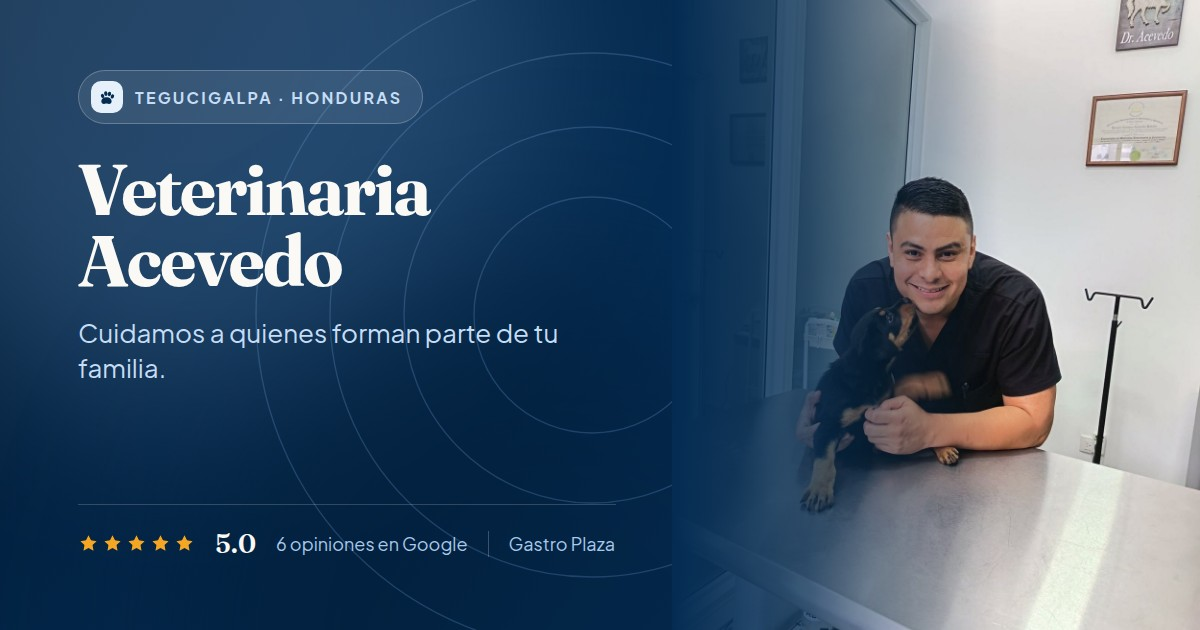
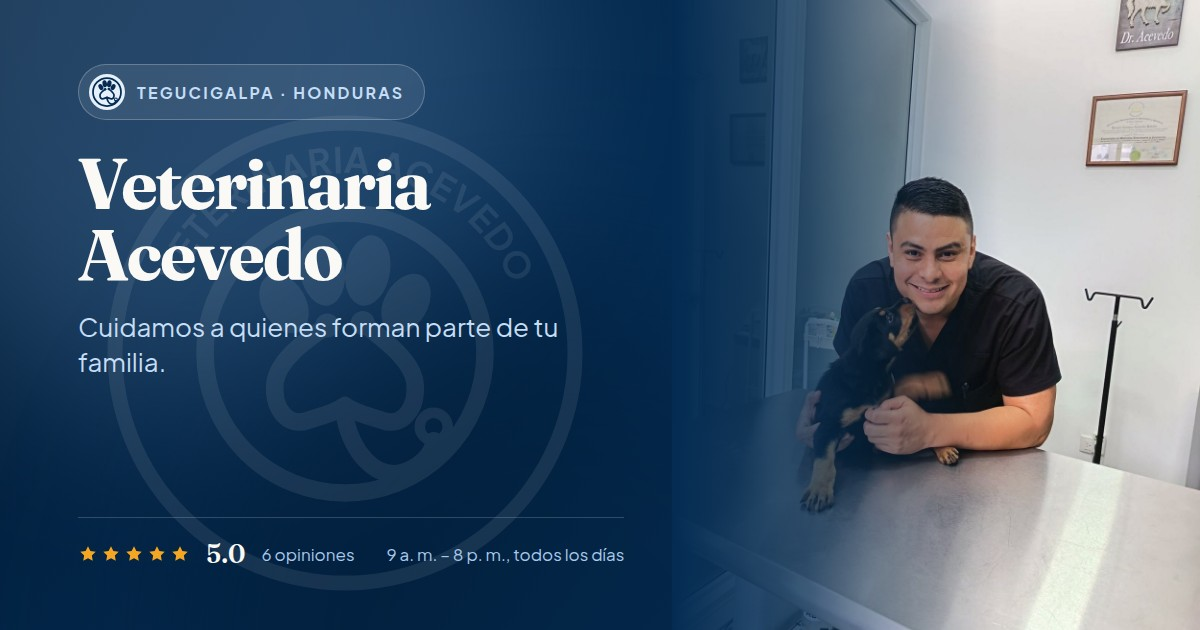
Logotipo real de la clínica, horarios y textos de servicios
Logotipo
- Se redibuja el logotipo de Veterinaria Acevedo en SVG (`ui/LogoMark.tsx`). El
  archivo entregado medía 206 px, demasiado poco para usarlo tal cual: ampliarlo
  se habría visto borroso. La versión vectorial se ve nítida en cualquier
  tamaño. La geometría se midió sobre el original —anillos, dedos, almohadilla y
  campana— y se verificó superponiendo el trazado al archivo de partida.
- El tubo del estetoscopio dibuja el contorno de la almohadilla, igual que en la
  marca original.
- El símbolo toma el color del contenedor, así que sirve en azul sobre fondo
  claro y en blanco sobre el azul marino de la barra y el pie.
- La barra de navegación usa la versión sin el texto circular, que a 44 px no se
  leería, junto al nombre en tipografía. El sello completo va en el pie, a 96 px.
- El favicon se rehace con el mismo símbolo.
- La imagen para compartir incorpora el logotipo como marca de agua y en la
  etiqueta de ubicación.

Contenido
- Horario de atención: todos los días de 9:00 a. m. a 8:00 p. m. La sección de
  Ubicación ya no muestra el aviso de «consultar disponibilidad».
- Se actualizan las descripciones de Consulta veterinaria, Medicina preventiva y
  Orientación para propietarios con el texto facilitado por la clínica.

Verificado: contraste de todo el texto conforme a WCAG AA, sin desbordes
horizontales entre 320 y 1920 px, sin errores de consola ni peticiones fallidas.

Claude-Session: https://claude.ai/code/session_01RADfFrq428WcMdVogMPWmF

diff --git a/src/components/ui/LogoMark.tsx b/src/components/ui/LogoMark.tsx
@@ -1,0 +1,80 @@
+import { useId } from 'react';
+
+type LogoMarkProps = {
+  /**
+   * `true` dibuja el sello completo, con «VETERINARIA ACEVEDO» rodeando la
+   * pata. Por debajo de unos 90 px ese texto deja de leerse, así que en la
+   * barra de navegación conviene `false`.
+   */
+  withText?: boolean;
+  className?: string;
+};
+
+/**
+ * Logotipo de la clínica, redibujado en vector a partir del original.
+ * El tubo del estetoscopio traza el contorno de la almohadilla, igual que en
+ * la marca real. Al ser vectorial se ve nítido en cualquier tamaño.
+ *
+ * Toma el color del texto que lo contiene (`currentColor`), de modo que sirve
+ * tanto en azul sobre fondo claro como en blanco sobre fondo oscuro.
+ */
+export function LogoMark({ withText = true, className = '' }: LogoMarkProps) {
+  const arcId = `arco-${useId().replace(/:/g, '')}`;
+
+  return (
+    <svg
+      /* Sin el texto se recorta al anillo interior, para que la pata llene el
+         encuadre sin tener que reescalarla. */
+      viewBox={withText ? '0 0 200 200' : '40 40 120 120'}
+      className={className}
+      fill="none"
+      stroke="currentColor"
+      aria-hidden="true"
+      focusable="false"
+    >
+      {withText ? (
+        <>
+          <defs>
+            <path id={arcId} d="M 32.3 124.6 A 72 72 0 1 1 167.7 124.6" fill="none" />
+          </defs>
+          <circle cx="100" cy="100" r="92" strokeWidth="6" />
+          <text
+            fontFamily="'Plus Jakarta Sans', ui-sans-serif, system-ui, sans-serif"
+            fontSize="14.2"
+            fontWeight="700"
+            letterSpacing="0.3"
+            fill="currentColor"
+            stroke="none"
+          >
+            <textPath href={`#${arcId}`} startOffset="50%" textAnchor="middle">
+              VETERINARIA ACEVEDO
+            </textPath>
+          </text>
+        </>
+      ) : null}
+
+      <circle cx="100" cy="100" r="56" strokeWidth="7" />
+
+      <g>
+        {/* Dedos */}
+        <g fill="currentColor" stroke="none">
+          <ellipse cx="75.6" cy="80.2" rx="8.7" ry="12.8" transform="rotate(-30 75.6 80.2)" />
+          <ellipse cx="90.9" cy="67" rx="8.9" ry="14.2" transform="rotate(-10 90.9 67)" />
+          <ellipse cx="109.1" cy="67" rx="8.9" ry="14.2" transform="rotate(10 109.1 67)" />
+          <ellipse cx="124.4" cy="80.2" rx="8.7" ry="12.8" transform="rotate(30 124.4 80.2)" />
+        </g>
+
+        {/* Estetoscopio: su tubo dibuja el contorno de la almohadilla */}
+        <g strokeWidth="7" strokeLinecap="round" strokeLinejoin="round">
+          <path d="M92.9 89C84 95 73 103 72 112 71 122 77 130 85 127 91 125 96 124 100 121 104 124 109 125 115 127 123 130 129 122 128 112 127 103 116 95 107.1 88" />
+          <path d="M100 126C103 140 112 150 122 148 130 146 135.5 140 135.5 135" />
+        </g>
+        <g fill="currentColor" stroke="none">
+          <circle cx="92.9" cy="89" r="4.8" />
+          <circle cx="107.1" cy="88" r="4.8" />
+        </g>
+        <circle cx="135.5" cy="129.5" r="5.6" strokeWidth="4.2" />
+      </g>
+    </svg>
+  );
+}

diff --git a/src/components/ui/Logo.tsx b/src/components/ui/Logo.tsx
@@ -1,29 +1,38 @@
-import { Icon } from './Icon';
+import { LogoMark } from './LogoMark';
 import { business } from '../../data/business';
 
 type LogoProps = {
   tone?: 'light' | 'dark';
+  /**
+   * `lockup` combina el símbolo con el nombre en tipografía: se lee bien en
+   * tamaños pequeños, como la barra de navegación.
+   * `badge` muestra el sello completo de la clínica, con su texto circular.
+   * Sólo conviene a partir de unos 80 px.
+   */
+  variant?: 'lockup' | 'badge';
   className?: string;
 };
 
-/**
- * Lockup de marca: símbolo + nombre en dos niveles.
- * `tone="dark"` se usa sobre fondos oscuros (pie de página, menú móvil).
- */
-export function Logo({ tone = 'light', className = '' }: LogoProps) {
+/** Marca de Veterinaria Acevedo. */
+export function Logo({ tone = 'light', variant = 'lockup', className = '' }: LogoProps) {
   const isDark = tone === 'dark';
+  const colorClass = isDark ? 'text-white' : 'text-brand-600';
   const [first, ...restName] = business.name.split(' ');
+
+  if (variant === 'badge') {
+    return (
+      <LogoMark
+        className={`size-24 shrink-0 transition-colors duration-500 ${colorClass} ${className}`.trim()}
+      />
+    );
+  }
 
   return (
     <span className={`flex items-center gap-3 ${className}`.trim()}>
-      <span
-        aria-hidden="true"
-        className={`grid size-11 shrink-0 place-items-center rounded-[0.9rem] bg-gradient-to-br shadow-[var(--shadow-soft)] transition-colors duration-500 ${
-          isDark ? 'from-brand-400 to-brand-600 text-navy-950' : 'from-navy-700 to-navy-900 text-mist-100'
-        }`}
-      >
-        <Icon name="paw" size={22} />
-      </span>
+      <LogoMark
+        withText={false}
+        className={`size-11 shrink-0 transition-colors duration-500 ${colorClass}`}
+      />
       <span className="flex flex-col leading-none">
         <span
           className={`text-[0.6rem] font-bold tracking-[0.22em] uppercase transition-colors duration-500 ${

diff --git a/src/data/business.ts b/src/data/business.ts
@@ -108,7 +108,9 @@ export const business = {
    *     { days: 'Sábado',          time: '8:00 a. m. – 12:00 m.' },
    *   ],
    * ----------------------------------------------------------------------- */
-  hours: [] as { days: string; time: string }[], // ✏ EDITABLE
+  hours: [
+    { days: 'Todos los días', time: '9:00 a. m. – 8:00 p. m.' }, // ✏ EDITABLE
+  ] as { days: string; time: string }[],
 
   /* ── SEO ───────────────────────────────────────────────────────────────── */
   seo: {
@@ -146,13 +148,13 @@ export const services: Service[] = [
     icon: 'stethoscope',
     title: 'Consulta veterinaria',
     description:
-      'Atención personalizada para perros y gatos, con tiempo para escuchar y revisar con calma a cada paciente.',
+      'Atención personalizada para perros y gatos, con el cuidado necesario para atender a cada paciente.',
   },
   {
     icon: 'shield',
     title: 'Medicina preventiva',
     description:
-      'Acompañamiento para mantener la salud de tu mascota y anticiparse a los problemas antes de que aparezcan.',
+      'Acompañamiento para mantener la salud de tu mascota y prevenir patologías antes de que aparezcan.',
   },
   {
     icon: 'heart',
@@ -164,7 +166,7 @@ export const services: Service[] = [
     icon: 'chat',
     title: 'Orientación para propietarios',
     description:
-      'Resolvemos tus dudas y te explicamos cada paso, para que tomes decisiones informadas sobre tu mascota.',
+      'Aclaramos tus dudas y te explicamos cada paso, para que tomes decisiones informadas sobre tu mascota.',
   },
 ];
 

diff --git a/src/components/Footer.tsx b/src/components/Footer.tsx
@@ -18,7 +18,7 @@ export function Footer() {
         <div className="grid gap-12 md:grid-cols-12 md:gap-8">
           {/* Marca */}
           <div className="md:col-span-5 lg:col-span-4">
-            <Logo tone="dark" />
+            <Logo tone="dark" variant="badge" />
             <p className="mt-6 max-w-xs text-[0.9375rem] leading-relaxed">
               {business.legalName}. Atención veterinaria y cuidado integral de mascotas en{' '}
               {business.address.locality}, {business.address.country}.

diff --git a/README.md b/README.md
@@ -155,8 +155,8 @@ src/
   components/
     Navbar  Hero  About  Services  WhyUs  TrustSection
     Location  Contact  Footer  MobileActionBar
-    ui/  Button · Icon · Logo · Photo · BrandPanel · MapCard
-         SectionHeading · Stars · Reveal
+    ui/  Button · Icon · Logo · LogoMark · Photo · BrandPanel
+         MapCard · SectionHeading · Stars · Reveal
   hooks/useReveal.ts  animaciones de entrada al hacer scroll
   index.css           paleta, tipografía y utilidades del sistema de diseño
   lib/basePath.ts     resuelve las rutas si el sitio vive en una subcarpeta
@@ -178,6 +178,13 @@ vite.config.ts        incluye el plugin que genera el SEO desde business.ts
 - **Mapa bajo demanda.** La sección Ubicación muestra un mapa ilustrado y sólo
   carga el mapa de Google cuando el visitante pulsa «Ver mapa interactivo»: la
   página abre más rápido y no se cargan recursos de terceros sin necesidad.
+- **Logotipo vectorial.** El logotipo de la clínica está redibujado en SVG
+  (`ui/LogoMark.tsx`) a partir del original, que sólo existía en 206 px. Al ser
+  vectorial se ve nítido en cualquier tamaño, desde el favicon hasta impresión.
+  Toma el color del contenedor, así que funciona en azul sobre fondo claro y en
+  blanco sobre el azul marino. En la barra de navegación se usa la versión sin
+  el texto circular —a 44 px no se leería— junto al nombre en tipografía; el
+  sello completo aparece en el pie, donde sí hay tamaño para leerlo.
 - **Tipografías propias.** Fraunces y Plus Jakarta Sans se sirven desde el mismo
   sitio, con precarga, para evitar saltos de texto y peticiones externas.
 - **Movimiento moderado.** Las animaciones de entrada usan un único
